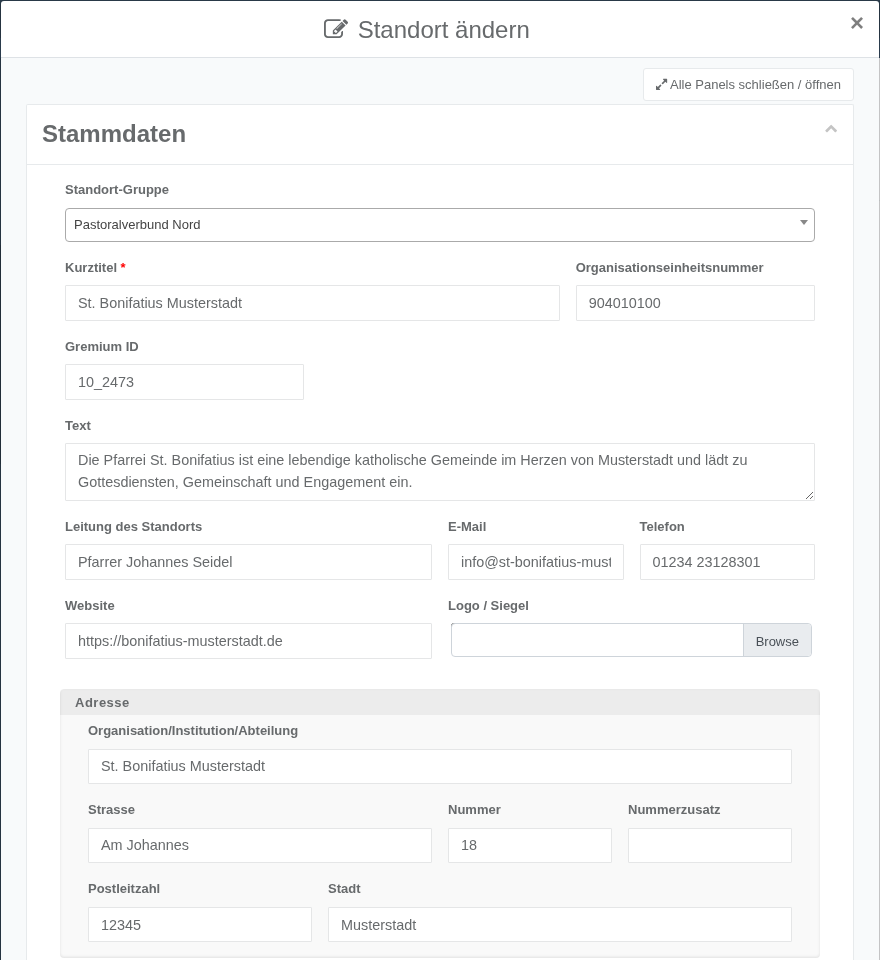
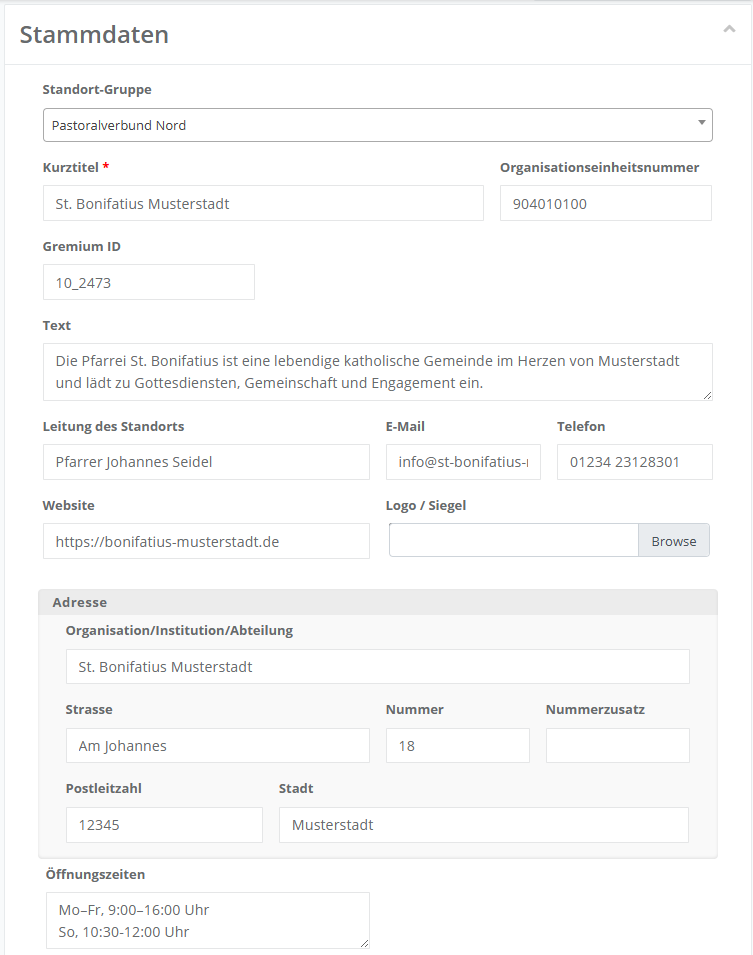
Neue Rubrik 'Videos' (E-Learning nach Modul + Tutorials) mit eingebetteten Vimeo-Playern

diff --git a/docs/08-videos/01-e-learning.md b/docs/08-videos/01-e-learning.md
@@ -1,0 +1,132 @@
+---
+title: "E-Learning-Videos"
+sidebar_position: 1
+---
+
+# E-Learning-Videos zu Elektra
+
+Diese Videos stellen die zentralen Module von **Elektra** ausführlich vor – ideal, um sich strukturiert einzuarbeiten.
+
+## Die ersten Schritte
+
+In den folgenden zwei Videos erhalten Sie alles rund um Registrierung, Anmeldung und Benutzeroberfläche, damit Sie für den Start gut ausgerüstet sind.
+
+### Erste Schritte
+
+<Vimeo id="1079722476" title="Erste Schritte" />
+
+Registrierung, Anmeldung mit Zwei-Faktor-Authentifizierung sowie Einrichtung und Verwaltung des Benutzerprofils.
+
+### Benutzeroberfläche und wiederkehrende Bedienelemente
+
+<Vimeo id="1079724141" title="Benutzeroberfläche und wiederkehrende Bedienelemente" />
+
+Überblick über die Benutzeroberfläche und die zentralen, immer wiederkehrenden Navigations- und Bedienelemente.
+
+## Aufgaben
+
+### Aufgaben
+
+<Vimeo id="1079705067" title="Aufgaben" />
+
+Das Aufgabenheft effektiv nutzen, den Helpdesk kennenlernen sowie Anträge und Anfragen stellen und bearbeiten.
+
+## Stammdaten
+
+### Standort, Wahlräume, Bezirke
+
+<Vimeo id="1080076879" title="Standort, Wahlräume, Bezirke" />
+
+Anlegen und Verwalten von Standort, Wahlräumen und Bezirken und wie diese zusammenhängen.
+
+### Wahlteam
+
+<Vimeo id="1080076986" title="Wahlteam" />
+
+Wahlteammitglieder hinzufügen und verwalten – ein zentraler Schritt der Wahlvorbereitung.
+
+### Kandidaten
+
+<Vimeo id="1080077075" title="Kandidaten" />
+
+Kandidaten-Onboarding und -Verwaltung sowie die automatische Erstellung zugehöriger Dokumente.
+
+### Wähler
+
+<Vimeo id="1080079239" title="Wähler" />
+
+Das Wählerverzeichnis verwalten, filtern und bearbeiten – inklusive der Möglichkeit, Wähler zu Kandidaten zu machen.
+
+## Wahlfunktionen
+
+### Wahlfunktionen allgemein
+
+<Vimeo id="1080079395" title="Wahlfunktionen allgemein" />
+
+Wiederkehrende Werkzeuge vieler Wahlfunktionen: Arbeitshilfen, Plausibilitätsmodul, Listenansichten, Kommentare und Statusanzeigen.
+
+### Wahlfunktion 1 – Stimmzettel erstellen
+
+<Vimeo id="1095842650" title="Wahlfunktion 1" />
+
+Stimmzettel aus den Wahlvorschlägen erzeugen, im gewünschten Design generieren und für den Druck freigeben.
+
+### Wahlfunktion 2 – Wähleranfragen bearbeiten
+
+<Vimeo id="1087930171" title="Wahlfunktion 2" />
+
+Das Wählerservice-Modul zur strukturierten Bearbeitung von Wähleranfragen inkl. automatischer Prüfmechanismen.
+
+### Wählerservice
+
+<Vimeo id="1101805055" title="Wählerservice" />
+
+Kurzvideo zur Abgrenzung zwischen Wählerservice und Wahlfunktion 2.
+
+### Wahlfunktion 3 – Wahlunterlagen generieren
+
+<Vimeo id="1087930283" title="Wahlfunktion 3" />
+
+Wahlunterlagen für Brief- und Onlinewahl als Seriendruck erstellen und den Versand dokumentieren.
+
+### Wahlfunktion 4 – Urnenwahl protokollieren
+
+<Vimeo id="1095528250" title="Wahlfunktion 4" />
+
+Urnenwahltage dokumentieren: Protokolle vorbereiten, ausfüllen und als unterzeichnete Dokumente hochladen.
+
+### Wahlfunktion 5 – Onlinewahl prüfen
+
+<Vimeo id="1095852860" title="Wahlfunktion 5" />
+
+Ansichtsfunktion zur transparenten Einsicht der Onlinewahlergebnisse.
+
+### Wahlfunktion 6 – Auszählung protokollieren
+
+<Vimeo id="1095528383" title="Wahlfunktion 6" />
+
+Öffnung der Wahlurnen und den Auszählungsprozess je Bezirk dokumentieren.
+
+### Wahlfunktion 7 – Stimmen erfassen
+
+<Vimeo id="1095528463" title="Wahlfunktion 7" />
+
+Stimmen der Kandidierenden je Bezirk und Wahlkanal strukturiert erfassen und Protokolle erzeugen.
+
+### Wahlfunktion 8 – Sitze zuteilen
+
+<Vimeo id="1095842718" title="Wahlfunktion 8" />
+
+Sitze auf Basis der Rangfolge zuteilen, manuelle Anpassungen dokumentieren und ein Protokoll erstellen.
+
+### Wahlfunktion 9 – Ergebnisse melden
+
+<Vimeo id="1095842810" title="Wahlfunktion 9" />
+
+Abschließende Dokumentation und Übermittlung der Wahlergebnisse inklusive Sitzverteilung und Statistik.
+
+### Dokumente
+
+<Vimeo id="1095852942" title="Dokumente" />
+
+Alle erzeugten und hochgeladenen Dokumente des Standorts übersichtlich mit Filterfunktionen.

diff --git a/docs/05-stammdaten-pflegen/01-standort-einstellungen/01-stammdaten.md b/docs/05-stammdaten-pflegen/01-standort-einstellungen/01-stammdaten.md
@@ -16,47 +16,27 @@ Das Panel Stammdaten enthält die zentralen Grunddaten des Standorts – von der
 
 | Feld | Bedeutung |
 | --- | --- |
-| Standort-Gruppe | Zuordnung zu einer organisatorischen Mittel-Ebene in der Territorialstruktur (Dropdown). Die Auswahlwerte pflegt die zentrale Projektleitung bzw. das Meldewesen. |
-| Kurztitel | Zentraler, einzeiliger Titel – bei Kirchenwahlen in der Regel die Bezeichnung der Gemeinde (Patrozinium + Ort). |
+| Standort-Gruppe | Zuordnung zu einer organisatorischen Mittel-Ebene in der Territorialstruktur (Dropdown). Die Auswahlwerte pflegt die zentrale Projektleitung bzw. das Meldewesen - *in der Regel nicht bearbeitbar*. |
+| Kurztitel | Zentraler, einzeiliger Titel – bei Kirchenwahlen in der Regel die Bezeichnung der Gemeinde (Patrozinium + Ort) - *in der Regel nicht bearbeitbar*. |
 | Organisationseinheitsnummer | Technisches Merkmal aus dem Datenimport – *in der Regel nicht bearbeitbar*. |
 | Gremium ID | Interne Kennung des am Standort zu wählenden Gremiums (aus dem Import) – *in der Regel nicht bearbeitbar*. |
 | Text | Mehrzeiliges Freitext-Eingabefeld. |
 | Leitung des Standorts | Für den Standort/Betrieb hauptverantwortliche Person, so wie sie der Projektleitung für die zentrale Vorbefüllung bekannt ist. |
-
-</div>
-
-## Kontakt & Medien
-
-<div className="fieldTable">
-
-| Feld | Bedeutung |
-| --- | --- |
 | E-Mail | E-Mail-Adresse, über die der Standort bzw. die Standortleitung erreichbar ist. |
 | Telefon | Telefonnummer, über die der Standort bzw. die Standortleitung erreichbar ist. |
 | Website | Website des Standorts. |
 | Logo / Siegel | Upload eines Bildes zur Personalisierung von Schriftstücken. |
-
-</div>
-
-Im unteren Bereich des Panels folgen zwei weitere Abschnitte: die vollständige **Anschrift** des Standorts sowie eine **Ansprechperson für die Wahl**.
-
-![](img/image88.png)
-*Ansprechperson für die Wahl*
-
-## Anschrift
-
-<div className="fieldTable">
-
-| Feld | Bedeutung |
-| --- | --- |
-| Adresse | Organisation/Institution/Abteilung, Straße, Nummer, Nummernzusatz, Postleitzahl, Stadt. |
+| Adresse | Organisation/Institution/Abteilung, Straße, Nummer, Nummernzusatz, Postleitzahl, Stadt. Die hier angegebene Adresse wird in der Regel als Rücksendeadresse für Wahlunterlagen angedruckt. |
 | Öffnungszeiten | Mehrzeiliges Freitextfeld. |
 
 </div>
 
 ## Ansprechperson für die Wahl
 
-Diese Person dient als zentraler Kontakt für Wahlangelegenheiten am Standort.
+Im unteren Bereich des Panels folgt der Abschnitt **Ansprechperson für die Wahl**. Diese Person dient als zentraler Kontakt für Wahlangelegenheiten am Standort.
+
+![](img/image88.png)
+*Ansprechperson für die Wahl*
 
 <div className="fieldTable">
 

diff --git a/docs/08-videos/02-tutorials.md b/docs/08-videos/02-tutorials.md
@@ -1,0 +1,26 @@
+---
+title: "Tutorials"
+sidebar_position: 2
+---
+
+# Tutorials
+
+Diese Videos helfen Ihnen bei konkreten Anwendungsfällen. Einen umfassenden Überblick über die einzelnen Bereiche bieten die [E-Learning-Videos](./e-learning).
+
+## Quick Tour: Elektra kompakt erklärt
+
+<Vimeo id="1085965643" title="Quick Tour: Elektra kompakt erklärt" />
+
+Wenn Sie **Elektra** zum ersten Mal nutzen, gibt Ihnen dieses Video in rund elf Minuten einen allgemeinen Überblick über die Anwendung.
+
+## Registrierungsantrag
+
+<Vimeo id="1099893188" title="Registrierungsantrag" />
+
+Wie Sie als Standortverantwortliche(r) einen Registrierungsantrag für die Wahlteam-Mitglieder erstellen.
+
+## Standortwechsel
+
+<Vimeo id="1099893207" title="Standortwechsel" />
+
+Wie der Standortwechsel eines Wählers korrekt durchgeführt wird – hilfreich bei Wunschwählern.

diff --git a/docs/08-videos/index.md b/docs/08-videos/index.md
@@ -1,0 +1,12 @@
+---
+title: "Videos"
+sidebar_position: 0
+---
+
+# Videos
+
+In diesem Bereich finden Sie Videos, die Ihnen die verschiedenen Bereiche von **Elektra** näherbringen. Die **E-Learning-Videos** stellen die zentralen Module (Aufgaben, Stammdaten, Wahlfunktionen …) im Detail vor. Die **Tutorials** helfen bei konkreten Anwendungsfällen.
+
+## In diesem Bereich
+
+<DocCardList />
